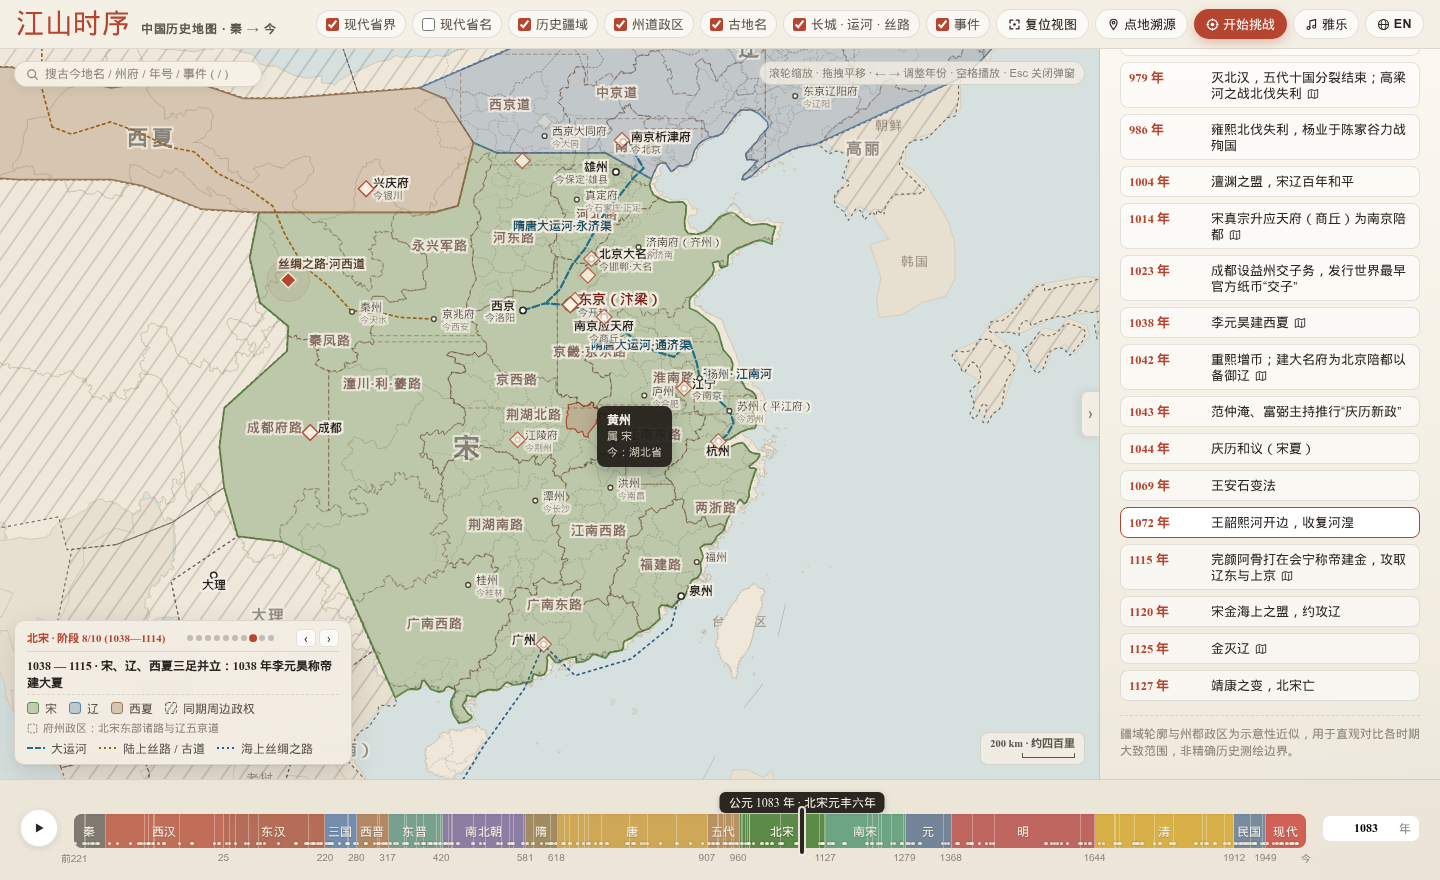
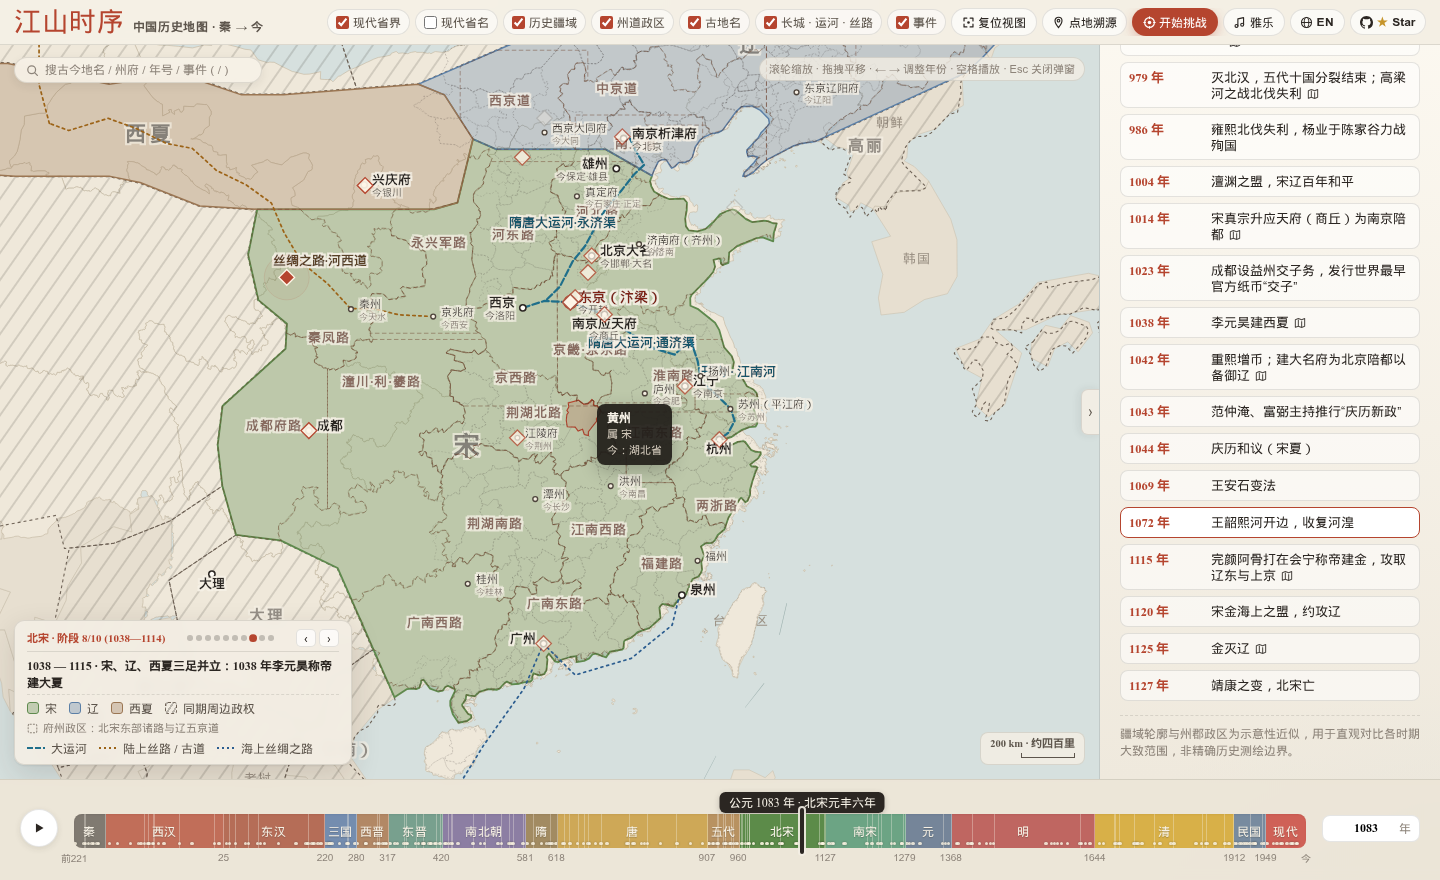
feat(ui): add GitHub Star button to top navigation bar

diff --git a/css/style.css b/css/style.css
@@ -61,8 +61,8 @@ h2 {
   display: flex;
   align-items: center;
   justify-content: space-between;
-  gap: 12px;
-  padding: 9px 16px;
+  gap: 10px;
+  padding: 8px 14px;
   border-bottom: 1px solid var(--hairline);
   background: rgba(243, 238, 228, 0.85);
   backdrop-filter: blur(6px);
@@ -71,14 +71,14 @@ h2 {
 .brand-group h1 {
   display: flex;
   align-items: baseline;
-  gap: 10px;
+  gap: 8px;
   letter-spacing: 0.02em;
   white-space: nowrap;
 }
 
 .brand-group .seal-mark {
   font-family: var(--calligraphy-stack);
-  font-size: 28px;
+  font-size: 27px;
   font-weight: 400;
   color: var(--vermilion);
   line-height: 1;
@@ -86,29 +86,37 @@ h2 {
 
 .brand-group .subtitle-mark {
   font-family: var(--serif-stack);
-  font-size: 12px;
+  font-size: 11.5px;
   color: var(--text-secondary);
-  letter-spacing: 0.08em;
+  letter-spacing: 0.06em;
 }
 
 .control-strip {
   display: flex;
   align-items: center;
-  gap: 6px;
-  flex-wrap: wrap;
+  gap: 5px;
+  flex-wrap: nowrap;
+  overflow-x: auto;
+  scrollbar-width: none;
+}
+
+.control-strip::-webkit-scrollbar {
+  display: none;
 }
 
 .layer-chip {
   display: inline-flex;
   align-items: center;
-  gap: 5px;
-  font-size: 12.5px;
+  gap: 4px;
+  font-size: 12px;
   color: var(--text-secondary);
-  padding: 5px 9px;
+  padding: 4px 8px;
   border-radius: 999px;
   background: rgba(255, 255, 255, 0.55);
   border: 1px solid var(--hairline);
   user-select: none;
+  white-space: nowrap;
+  flex-shrink: 0;
   cursor: pointer;
   transition: background 0.15s, border-color 0.15s;
 }
@@ -127,11 +135,13 @@ h2 {
   display: inline-flex;
   align-items: center;
   justify-content: center;
-  gap: 4px;
-  padding: 6px 11px;
+  gap: 3.5px;
+  padding: 5px 9.5px;
   border-radius: 999px;
-  font-size: 12.5px;
+  font-size: 12px;
   font-weight: 500;
+  white-space: nowrap;
+  flex-shrink: 0;
   border: 1px solid transparent;
   transition: transform 0.1s, background 0.15s, box-shadow 0.15s;
 }
@@ -168,6 +178,29 @@ h2 {
   letter-spacing: 0.04em;
   min-width: 52px;
   text-align: center;
+}
+
+.github-star-btn {
+  text-decoration: none;
+  font-weight: 600;
+  gap: 4px;
+}
+
+.github-star-btn .star-mark {
+  color: var(--amber-gold);
+  font-size: 12px;
+  line-height: 1;
+  transition: transform 0.15s ease, color 0.15s ease;
+}
+
+.github-star-btn:hover {
+  border-color: var(--vermilion);
+  color: var(--vermilion);
+}
+
+.github-star-btn:hover .star-mark {
+  color: #d9821b;
+  transform: scale(1.18);
 }
 
 .music-pill-group {

diff --git a/index.html b/index.html
@@ -59,6 +59,11 @@
           <svg class="btn-svg" viewBox="0 0 16 16" width="13" height="13" aria-hidden="true"><circle cx="8" cy="8" r="6.2" fill="none" stroke="currentColor" stroke-width="1.3"/><ellipse cx="8" cy="8" rx="2.8" ry="6.2" fill="none" stroke="currentColor" stroke-width="1.2"/><line x1="2" y1="8" x2="14" y2="8" stroke="currentColor" stroke-width="1.2"/></svg>
           <span id="lbl-locale">EN</span>
         </button>
+        <a id="act-github-star" class="action-btn subtle github-star-btn" href="https://github.com/DeanChensj/jiangshan-map" target="_blank" rel="noopener noreferrer" title="在 GitHub 上为「江山时序」点亮 Star" aria-label="Star on GitHub">
+          <svg class="btn-svg" viewBox="0 0 16 16" width="13" height="13" aria-hidden="true"><path fill="currentColor" d="M8 0C3.58 0 0 3.58 0 8c0 3.54 2.29 6.53 5.47 7.59.4.07.55-.17.55-.38 0-.19-.01-.82-.01-1.49-2.01.37-2.53-.49-2.69-.94-.09-.23-.48-.94-.82-1.13-.28-.15-.68-.52-.01-.53.63-.01 1.08.58 1.23.82.72 1.21 1.87.87 2.33.66.07-.52.28-.87.51-1.07-1.78-.2-3.64-.89-3.64-3.95 0-.87.31-1.59.82-2.15-.08-.2-.36-1.02.08-2.12 0 0 .67-.21 2.2.82.64-.18 1.32-.27 2-.27.68 0 1.36.09 2 .27 1.53-1.04 2.2-.82 2.2-.82.44 1.1.16 1.92.08 2.12.51.56.82 1.27.82 2.15 0 3.07-1.87 3.75-3.65 3.95.29.25.54.73.54 1.48 0 1.07-.01 1.93-.01 2.2 0 .21.15.46.55.38A8.013 8.013 0 0 0 16 8c0-4.42-3.58-8-8-8z"/></svg>
+          <span class="star-mark" aria-hidden="true">★</span>
+          <span id="lbl-github-star">Star</span>
+        </a>
       </div>
     </header>
 

diff --git a/js/app.js b/js/app.js
@@ -487,6 +487,13 @@
         : this.uiStr('btn_quiz', '开始挑战');
       const lblLoc = this._id('lbl-locale') || this._id('act-locale');
       lblLoc.textContent = this.locale === 'en' ? '中文' : 'EN';
+      const ghBtn = this._id('act-github-star');
+      if (ghBtn) {
+        ghBtn.title =
+          this.locale === 'en'
+            ? 'Star DeanChensj/jiangshan-map on GitHub'
+            : '在 GitHub 上为「江山时序」点亮 Star';
+      }
       this._updateMusicUi();
       this._id('gesture-guide').textContent = this.uiStr(
         'hint',
